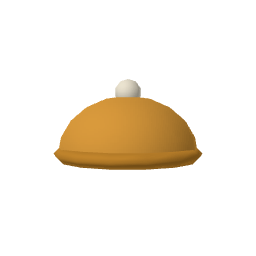
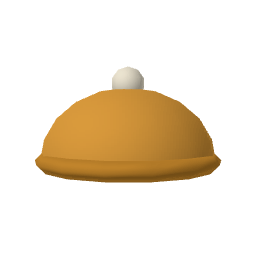
fix(mobile): 상점 썸네일을 꽉 차게 다시 굽기(화면에 비춘 상자 기준으로 거리 맞춤)

Changed region(s): [[0.125, 0.25, 0.875, 0.7188]]

diff --git a/apps/mobile/scripts/item-thumbs/main.js b/apps/mobile/scripts/item-thumbs/main.js
@@ -17,17 +17,32 @@ renderer.setClearColor(0x000000, 0);
 renderer.outputColorSpace = THREE.SRGBColorSpace;
 document.body.append(renderer.domElement);
 
-/** 물체가 꽉 차게(여백 8%) 앱과 같은 시야각 30도로 본다. tilt: 위에서 내려다보는 각(라디안) */
+/** 물체가 꽉 차게(여백 6%) 앱과 같은 시야각 30도로 본다. tilt: 위에서 내려다보는 각(라디안) */
 function shoot(root, tilt) {
   const scene = new THREE.Scene();
   scene.add(root);
   const box = new THREE.Box3().setFromObject(root);
   const c = box.getCenter(new THREE.Vector3());
-  const r = box.getBoundingSphere(new THREE.Sphere()).radius;
   const cam = new THREE.PerspectiveCamera(30, 1, 0.01, 50);
-  const d = (r * 1.08) / Math.sin(THREE.MathUtils.degToRad(15));
-  cam.position.set(c.x, c.y + Math.sin(tilt) * d, c.z + Math.cos(tilt) * d);
-  cam.lookAt(c);
+  const place = (d) => {
+    cam.position.set(c.x, c.y + Math.sin(tilt) * d, c.z + Math.cos(tilt) * d);
+    cam.lookAt(c);
+    cam.updateMatrixWorld();
+  };
+  // 상자 꼭짓점을 화면에 비춰 가장 먼 쪽이 가장자리 94%에 오게 거리를 맞춘다(두 번이면 수렴)
+  let d = box.getBoundingSphere(new THREE.Sphere()).radius / Math.sin(THREE.MathUtils.degToRad(15));
+  for (let k = 0; k < 3; k++) {
+    place(d);
+    let far = 0;
+    for (const x of [box.min.x, box.max.x])
+      for (const y of [box.min.y, box.max.y])
+        for (const z of [box.min.z, box.max.z]) {
+          const p = new THREE.Vector3(x, y, z).project(cam);
+          far = Math.max(far, Math.abs(p.x), Math.abs(p.y));
+        }
+    d *= far / 0.94;
+  }
+  place(d);
   renderer.render(scene, cam);
   return new Promise((ok) => renderer.domElement.toBlob(ok, 'image/png'));
 }
